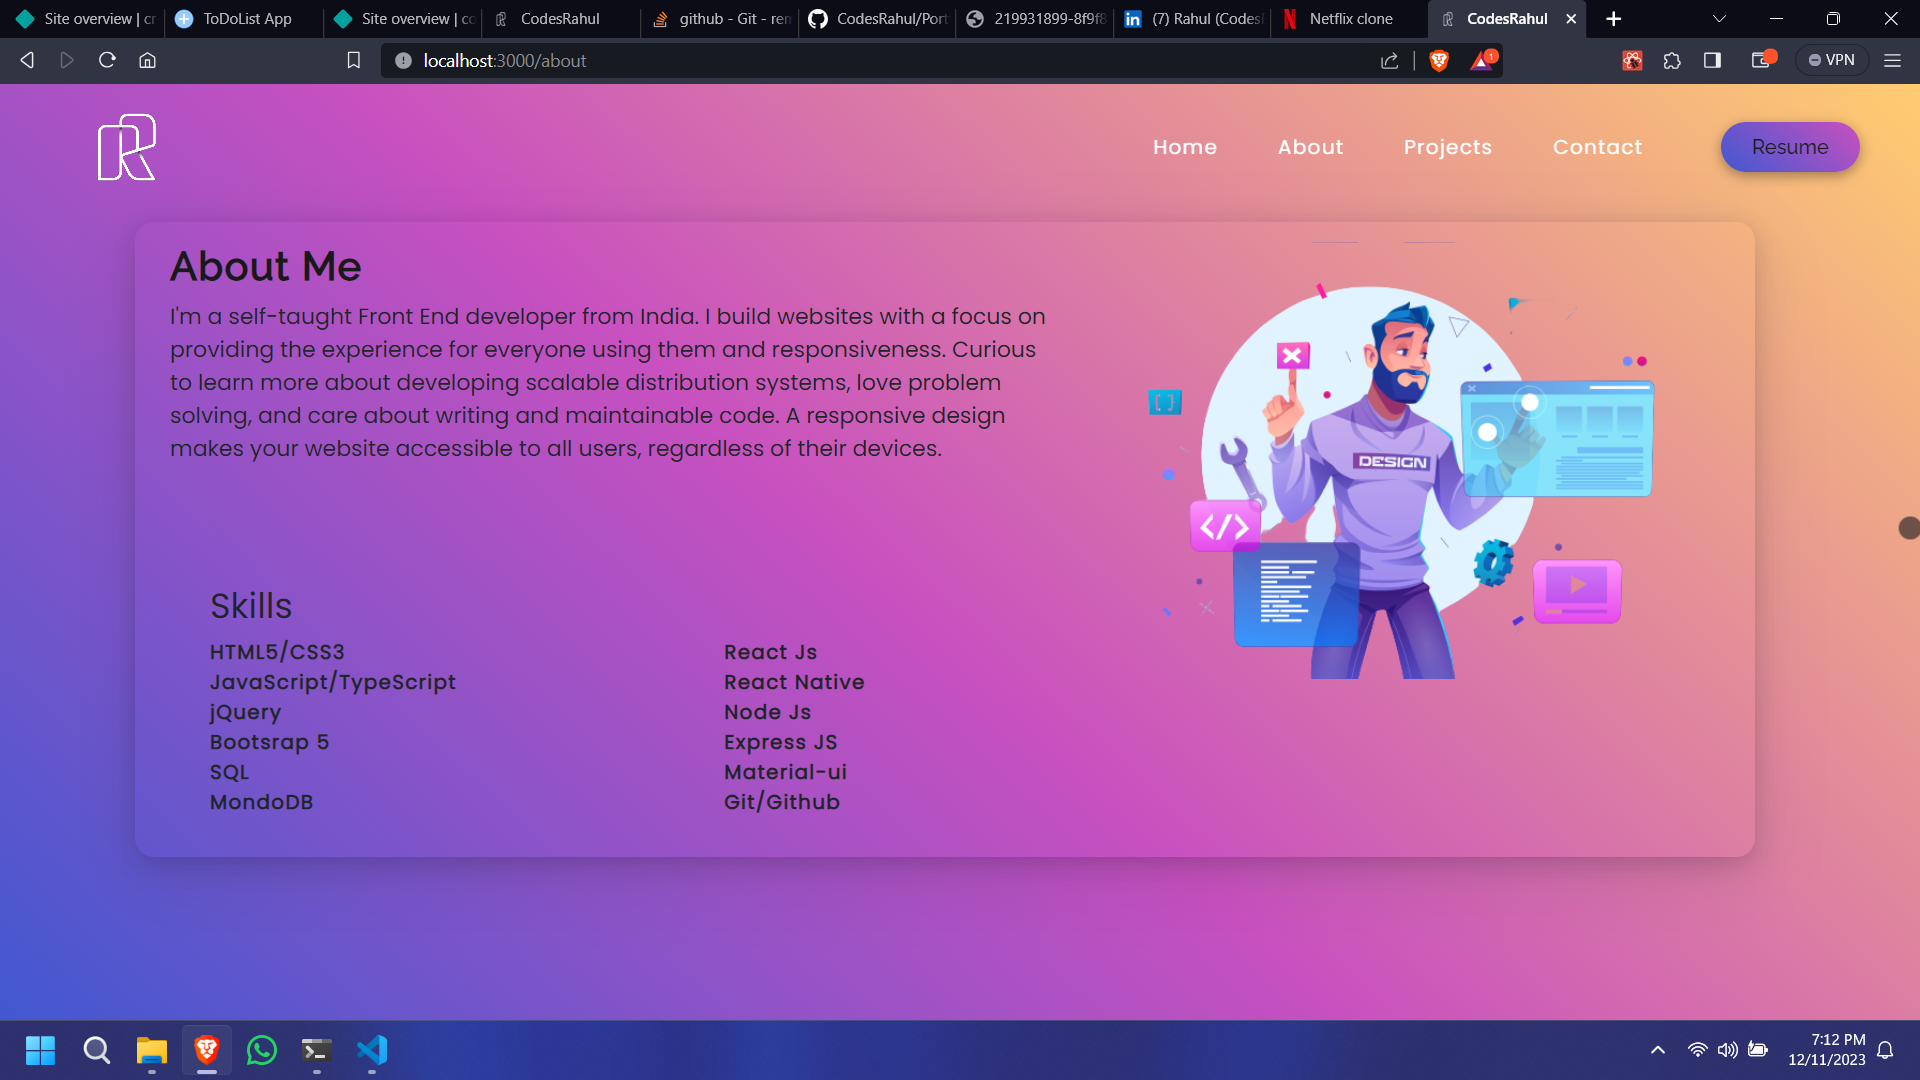
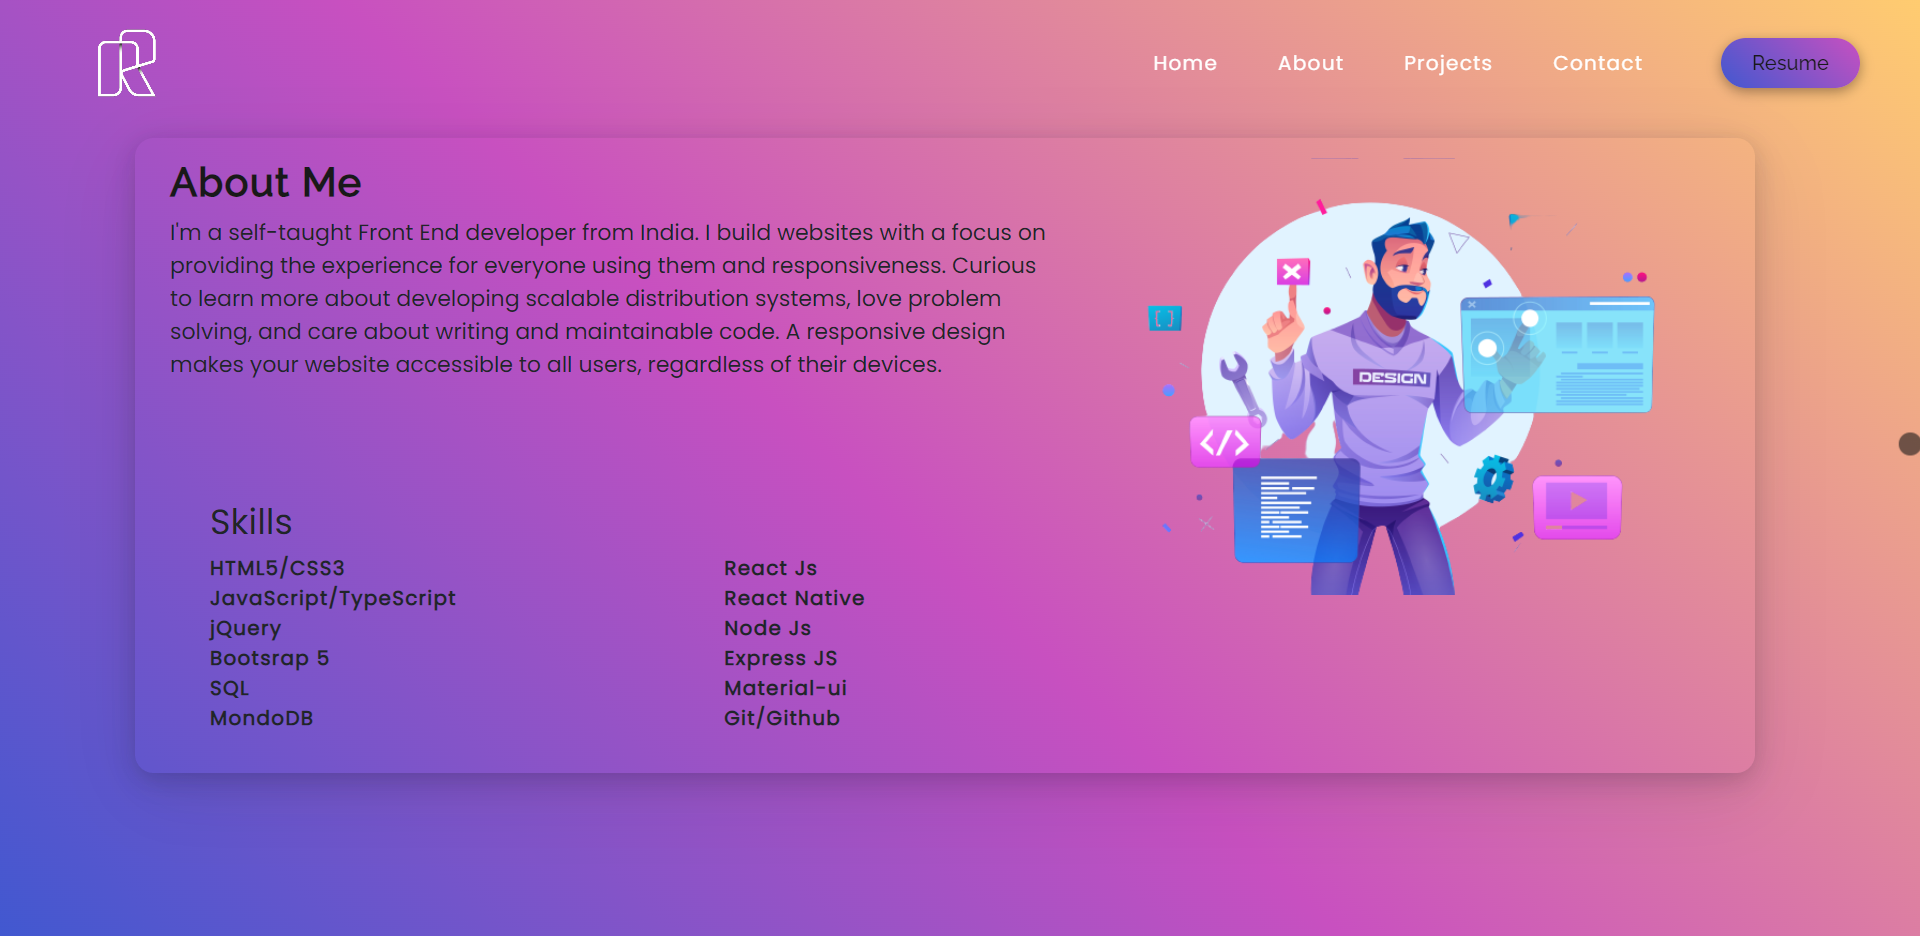
image updated

diff --git a/src/components/Header/Header.js b/src/components/Header/Header.js
@@ -4,6 +4,8 @@ import Nav from "react-bootstrap/Nav";
 import Navbar from "react-bootstrap/Navbar";
 import { Link, NavLink } from "react-router-dom";
 import "../../pages/style.css";
+import { IoCloudDownload } from "react-icons/io5";
+
 
 function Header() {
   const [expand, updateExpanded] = useState(false);
@@ -90,7 +92,7 @@ function Header() {
             }}
             className="resumebtn"
           >
-            <span>Resume</span>
+            <span className="resumeText">CV <IoCloudDownload /></span>
           </Button>
         </Nav>
       </Navbar.Collapse>

diff --git a/src/pages/style.css b/src/pages/style.css
@@ -103,6 +103,16 @@
   border: none;
 }
 
+.resumeText{
+  font-weight: bold;
+  color: lightyellow;
+  text-transform: uppercase;
+}
+.resumebtn,
+.resumeText:hover{
+  color: yellow;
+}
+
 @media (max-width: 767px) {
   .navbar {
     padding: 1rem 0rem !important;
